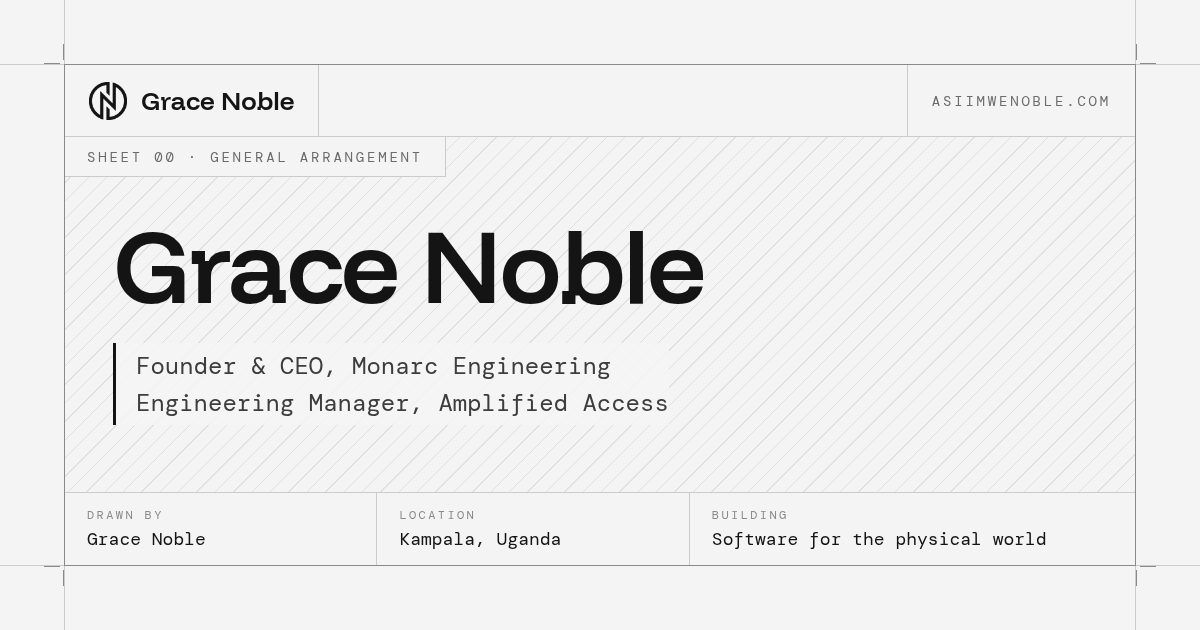
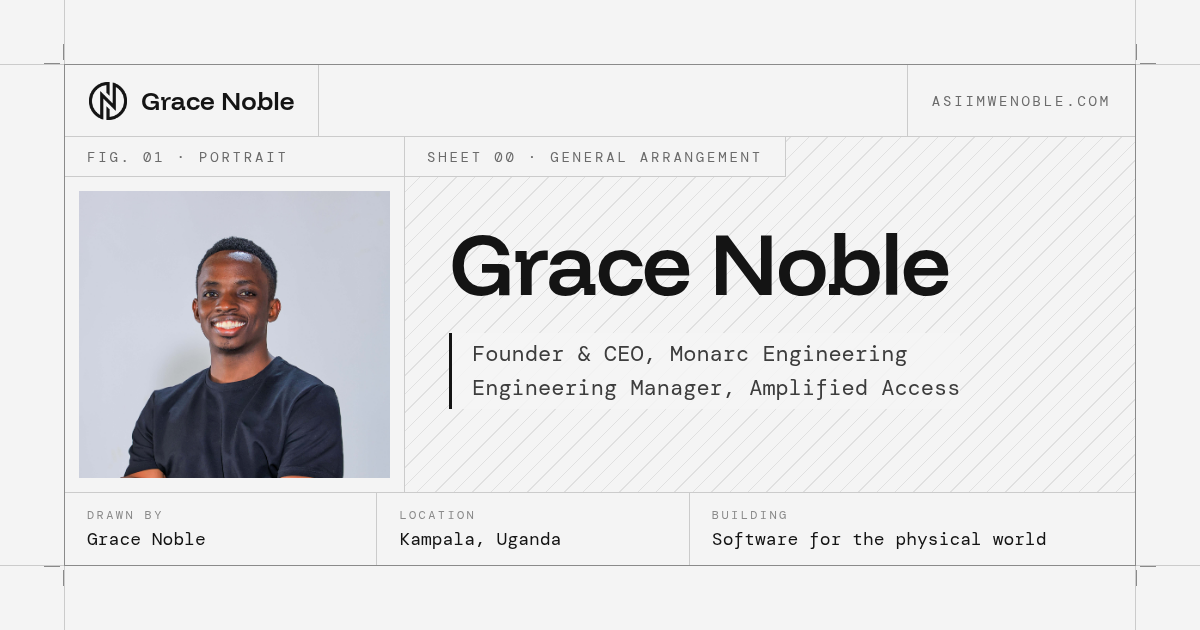
Feature Grace's portrait in the share card
Social previews now show the photo as "Fig. 01" beside the name and
roles on the blueprint sheet, framed on the face so platform crops
don't cut it. Alt text updated to match.

diff --git a/scripts/og-image.html b/scripts/og-image.html
@@ -23,11 +23,16 @@
   .head .brand { display:flex; align-items:center; gap:14px; padding:0 24px; border-right:1px solid var(--line); font-family:'Funnel Display',sans-serif; font-size:26px; font-weight:600; }
   .logo { width:38px; height:38px; background:var(--ink); -webkit-mask:url(../public/images/logo/icon.png) center/contain no-repeat; }
   .head .ref { margin-left:auto; display:flex; align-items:center; padding:0 24px; border-left:1px solid var(--line); font-size:14px; letter-spacing:.2em; text-transform:uppercase; color:#6b6b6b; }
-  .body { flex:1; position:relative; background-image:repeating-linear-gradient(-45deg, var(--hatch) 0 1px, transparent 1px 13px); }
+  .body { flex:1; display:flex; min-height:0; }
+  .fig { width:340px; border-right:1px solid var(--line); display:flex; flex-direction:column; background:var(--paper); }
+  .fig .tab { border-right:none; width:100%; }
+  .photo { flex:1; margin:14px; overflow:hidden; background:#e2e2e2; }
+  .photo img { width:100%; height:100%; object-fit:cover; object-position:45% 18%; transform:scale(1.15); transform-origin:45% 20%; display:block; }
+  .main { flex:1; position:relative; background-image:repeating-linear-gradient(-45deg, var(--hatch) 0 1px, transparent 1px 13px); }
   .tab { display:inline-flex; align-items:stretch; height:40px; background:var(--paper); border-bottom:1px solid var(--line); border-right:1px solid var(--line); }
   .tab span { display:flex; align-items:center; padding:0 22px; font-size:14px; letter-spacing:.2em; text-transform:uppercase; color:#6b6b6b; }
-  h1 { position:absolute; left:48px; top:78px; font-family:'Funnel Display',sans-serif; font-weight:600; font-size:104px; line-height:.95; letter-spacing:-.02em; }
-  .roles { position:absolute; left:48px; top:206px; border-left:3px solid var(--ink); padding:4px 0 4px 20px; background:rgba(244,244,244,.85); font-size:24px; line-height:1.55; color:#3d3d3d; }
+  h1 { position:absolute; left:44px; top:84px; font-family:'Funnel Display',sans-serif; font-weight:600; font-size:88px; line-height:.95; letter-spacing:-.02em; }
+  .roles { position:absolute; left:44px; top:196px; border-left:3px solid var(--ink); padding:4px 0 4px 20px; background:rgba(244,244,244,.85); font-size:22px; line-height:1.55; color:#3d3d3d; }
   .block { display:flex; border-top:1px solid var(--line); background:var(--paper); }
   .cell { flex:1; padding:14px 22px; border-left:1px solid var(--line); }
   .cell:first-child { border-left:none; }
@@ -48,9 +53,15 @@
       <div class="ref">asiimwenoble.com</div>
     </div>
     <div class="body">
-      <div class="tab"><span>Sheet 00 · General arrangement</span></div>
-      <h1>Grace Noble</h1>
-      <div class="roles">Founder &amp; CEO, Monarc Engineering<br>Engineering Manager, Amplified Access</div>
+      <div class="fig">
+        <div class="tab"><span>Fig. 01 · Portrait</span></div>
+        <div class="photo"><img src="../public/images/me.png" alt=""></div>
+      </div>
+      <div class="main">
+        <div class="tab"><span>Sheet 00 · General arrangement</span></div>
+        <h1>Grace Noble</h1>
+        <div class="roles">Founder &amp; CEO, Monarc Engineering<br>Engineering Manager, Amplified Access</div>
+      </div>
     </div>
     <div class="block">
       <div class="cell"><b>Drawn by</b><i>Grace Noble</i></div>

diff --git a/src/lib/metadata.ts b/src/lib/metadata.ts
@@ -7,7 +7,7 @@ const shareImage = {
   url: "/opengraph-image.png",
   width: 1200,
   height: 630,
-  alt: "Grace Noble, Founder & CEO of Monarc Engineering and Engineering Manager at Amplified Access, Kampala, Uganda",
+  alt: "Portrait of Grace Noble beside the title Grace Noble, Founder & CEO of Monarc Engineering and Engineering Manager at Amplified Access, Kampala, Uganda",
 };
 
 // Next merges metadata shallowly, so a page that sets `openGraph` replaces the
